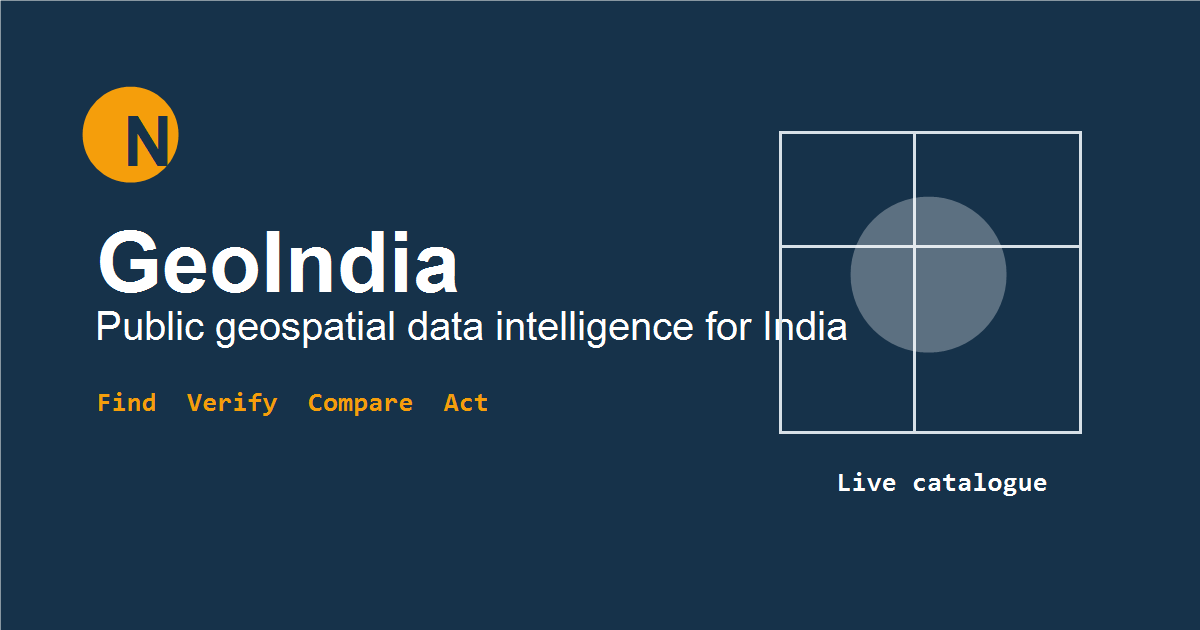
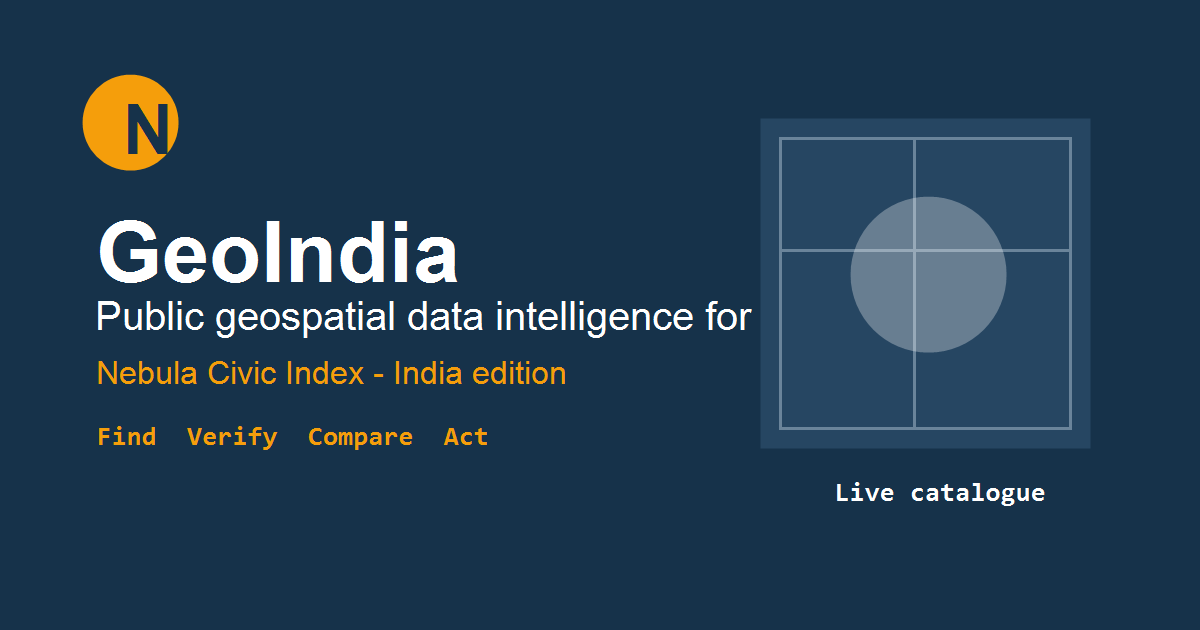
Add Civic Index global positioning

diff --git a/index.html b/index.html
@@ -50,10 +50,11 @@
       <div class="brandmark">N</div>
       <div class="brandtxt">
         <span class="brand-name">Nebula Civic Index</span>
-        <span class="brand-sub">GeoIndia · by Nebula Cloud Public Good Labs</span>
+        <span class="brand-sub">GeoIndia · first live regional edition</span>
       </div>
     </div>
     <h1>Find the data. Know whether to trust it. See what's missing.</h1>
+    <p class="editionline">The first live regional edition of Nebula Civic Index.</p>
     <p class="lede">GeoIndia is an open intelligence layer for India's fragmented public geospatial data. Discover datasets, services and portals; assess access, freshness and provenance; compare authoritative and alternative sources; identify coverage gaps; and move into analysis with NebulaCloud Studio.</p>
     <div class="journey" aria-label="GeoIndia workflow">
       <span>Find</span><i aria-hidden="true"></i><span>Verify</span><i aria-hidden="true"></i><span>Compare</span><i aria-hidden="true"></i><span>Act</span>
@@ -88,6 +89,7 @@
     <a href="#compare">Compare sources</a>
     <a href="#delivery">Delivery</a>
     <a href="#partner">Partner</a>
+    <a href="#civic-index">Civic Index</a>
     <a href="#next">What's next</a>
     <a href="#methodology">Methodology</a>
     <a href="#labs">Public Good Labs</a>
@@ -309,13 +311,45 @@
 
   <section id="partner" class="section">
     <div class="wrap">
-      <p class="eyebrow">Partner with Nebula</p>
+      <p class="eyebrow">Partner with Civic Index</p>
       <h2>Turn public-data discovery into operational delivery.</h2>
-      <p class="sub">GeoIndia is live as an open discovery and intelligence layer. NebulaCloud Studio and managed services are available for teams that need assisted analysis, packaging, validation, reporting or project-specific derived data.</p>
+      <p class="sub">GeoIndia is live as an open discovery and intelligence layer. We welcome collaboration with think tanks, policy organisations, market-research and advisory firms, geospatial analytics and Earth-observation companies, universities, researchers, NGOs, development organisations, civic-tech and open-data communities, industry bodies and public-sector institutions.</p>
       <div class="partner-actions">
         <a class="ghostbtn" href="https://nebulacloud.studio" target="_blank" rel="noopener noreferrer">Open NebulaCloud Studio ↗</a>
+        <a class="ghostbtn" href="https://nebulacloud.studio" target="_blank" rel="noopener noreferrer">Discuss a collaboration ↗</a>
         <span class="status-badge status-live">Live catalogue</span>
         <span class="status-badge status-nebula">Available via Nebula</span>
+      </div>
+    </div>
+  </section>
+
+  <section id="civic-index" class="section pale">
+    <div class="wrap">
+      <p class="eyebrow">Nebula Civic Index</p>
+      <h2>Civic Index across jurisdictions</h2>
+      <p class="sub">Nebula Civic Index is an open public-data intelligence initiative by Nebula Cloud Public Good Labs. It helps make fragmented public datasets easier to discover, verify, compare and act on across jurisdictions. GeoIndia is the first live regional edition.</p>
+      <p class="sub">Public data is abundant but fragmented across agencies, portals and jurisdictions. Civic Index is designed to provide a reusable intelligence layer for discovering what exists, understanding whether it is usable, comparing sources and identifying what is missing. Build locally. Standardize globally.</p>
+      <div class="editiongrid" aria-label="Regional Civic Index editions">
+        <article class="editioncard live-edition">
+          <span class="status-badge status-live">Live</span>
+          <h3>India — GeoIndia</h3>
+          <p>India's public geospatial data ecosystem.</p>
+        </article>
+        <article class="editioncard">
+          <span class="status-badge status-coming">Coming soon</span>
+          <h3>Europe edition</h3>
+          <p>Expected to begin with EU-level infrastructure and selected national ecosystems.</p>
+        </article>
+        <article class="editioncard">
+          <span class="status-badge status-coming">Coming soon</span>
+          <h3>United States edition</h3>
+          <p>Expected to begin with federal sources before expanding into state and local public-data ecosystems.</p>
+        </article>
+      </div>
+      <div class="collabbox">
+        <h3>Help build the next Civic Index</h3>
+        <p>We welcome collaboration with researchers, universities, open-data communities, geospatial organisations, civic-tech groups and public institutions interested in helping develop the Europe and United States editions.</p>
+        <p class="footnote">Collaboration areas include source discovery, catalogue validation, jurisdiction expertise, metadata harmonisation, geospatial standards, research, open-data policy, benchmark use cases and technology integration.</p>
       </div>
     </div>
   </section>
@@ -347,7 +381,7 @@
         <article><span class="status-badge status-coming">Coming soon</span><h3>Direct Studio handoff</h3><p>Send a selected dataset or filtered catalogue view into a live Studio workspace.</p></article>
         <article><span class="status-badge status-coming">Coming soon</span><h3>Source monitoring</h3><p>Scheduled checks for portal, endpoint and dataset-change signals.</p></article>
         <article><span class="status-badge status-coming">Coming soon</span><h3>APIs and authenticated execution</h3><p>Programmatic catalogue access and authenticated workflows for partner deployments.</p></article>
-        <article><span class="status-badge status-planned">Exploring / planned</span><h3>Additional Civic Index domains</h3><p>Climate, urban, agriculture and heritage data intelligence initiatives.</p></article>
+        <article><span class="status-badge status-planned">Exploring / planned</span><h3>Additional Public Good Labs initiatives</h3><p>Climate, urban, agriculture and heritage data intelligence initiatives.</p></article>
       </div>
     </div>
   </section>
@@ -366,9 +400,16 @@
       <div class="labsband">
         <p class="eyebrow">The initiative</p>
         <h2>Nebula Cloud Public Good Labs</h2>
-        <p class="sub">Applying AI, cloud computing and open technologies to public-interest data, research and digital infrastructure. GeoIndia is live; the adjacent domains are planned or being explored.</p>
+        <p class="sub">Applying AI, cloud computing and open technologies to public-interest data, research and digital infrastructure.</p>
+        <h3>Nebula Civic Index</h3>
+        <p class="sub">Public-data intelligence across jurisdictions.</p>
+        <div class="domains regional-domains">
+          <div class="domain live"><b>India — GeoIndia</b><span>India's public geospatial data ecosystem</span><em>Live</em></div>
+          <div class="domain coming"><b>Europe edition</b><span>EU-level and selected national public-data ecosystems</span><em>Coming soon</em></div>
+          <div class="domain coming"><b>United States edition</b><span>Federal, state and local public-data ecosystems</span><em>Coming soon</em></div>
+        </div>
+        <h3 class="initiative-head">Other Public Good Labs initiatives</h3>
         <div class="domains">
-          <div class="domain live"><b>GeoIndia</b><span>Geospatial data intelligence</span><em>Live</em></div>
           <div class="domain"><b>ClimateIndia</b><span>Climate &amp; environment</span><em>Exploring</em></div>
           <div class="domain"><b>UrbanIndia</b><span>Municipal &amp; urban data</span><em>Planned</em></div>
           <div class="domain"><b>AgriIndia</b><span>Agriculture &amp; food systems</span><em>Planned</em></div>
@@ -381,8 +422,8 @@
 
 <footer class="foot">
   <div class="wrap">
-    <p class="footline">Nebula Civic Index — GeoIndia is an open public-data initiative by <strong>Nebula Cloud Public Good Labs</strong>.</p>
-    <p class="footcopy">GeoIndia is an independent public-good initiative and is not an official Government of India portal. Catalogue metadata is openly licensed and downloadable. Source terms govern underlying datasets. Boundaries: Natural Earth (public domain). Basemap: © OpenStreetMap contributors, © CARTO.</p>
+    <p class="footline">Nebula Civic Index — GeoIndia is the first live regional edition of Nebula Civic Index, an open public-data intelligence initiative by <strong>Nebula Cloud Public Good Labs</strong>.</p>
+    <p class="footcopy">GeoIndia focuses on geospatial data intelligence for India. Europe and United States editions are planned next. GeoIndia is independent and is not an official Government of India portal. Source terms govern; underlying datasets are not re-hosted.</p>
     <p class="studiofoot"><a href="https://nebulacloud.studio" target="_blank" rel="noopener noreferrer">Built with NebulaCloud Studio</a></p>
   </div>
 </footer>

diff --git a/assets/css/styles.css b/assets/css/styles.css
@@ -37,7 +37,7 @@ a{color:var(--primary)}
 .eyebrow{font-family:var(--mono);font-size:12px;letter-spacing:.14em;text-transform:uppercase;color:var(--muted);font-weight:500}
 .sub{color:var(--muted);margin:6px 0 0;max-width:70ch}
 .footnote{font-size:13px;color:var(--muted);margin:12px 0 0}
-.section{padding:44px 0}
+.section{padding:44px 0;scroll-margin-top:68px}
 .section.pale{background:var(--card);border-top:1px solid var(--hair);border-bottom:1px solid var(--hair)}
 .skip{position:absolute;left:-9999px}
 .skip:focus{left:12px;top:12px;z-index:100;background:#fff;padding:8px 14px;border-radius:6px}
@@ -58,6 +58,7 @@ a{color:var(--primary)}
 .journey span{background:rgba(255,255,255,.1);border:1px solid rgba(255,255,255,.22);border-radius:6px;padding:6px 10px;font-size:14px}
 .journey i{width:24px;height:1px;background:rgba(255,255,255,.35)}
 .trustline{margin-top:14px;color:rgba(255,255,255,.76);font-size:13px;font-family:var(--mono)}
+.editionline{margin-top:10px;color:var(--accent);font-weight:700;font-size:14px}
 
 /* Search */
 .searchbar{display:flex;gap:10px;margin:22px 0 12px;max-width:820px}
@@ -277,6 +278,14 @@ mark{background:var(--accent-soft);color:inherit;padding:0 1px}
 
 /* Partner / roadmap */
 .partner-actions{display:flex;align-items:center;gap:10px;flex-wrap:wrap;margin-top:18px}
+.editiongrid{display:grid;grid-template-columns:repeat(auto-fit,minmax(240px,1fr));gap:16px;margin-top:20px}
+.editioncard{background:var(--card);border:1px solid var(--hair);border-radius:var(--radius);padding:18px;box-shadow:var(--shadow)}
+.editioncard h3{font-size:17px;margin:10px 0 6px}
+.editioncard p{font-size:14px;color:var(--muted)}
+.live-edition{border-color:#b8dcc6;background:var(--good-soft)}
+.collabbox{margin-top:18px;border:1px solid var(--hair);border-radius:var(--radius);background:var(--card);padding:18px;box-shadow:var(--shadow)}
+.collabbox h3{font-size:17px;margin-bottom:6px}
+.collabbox p{font-size:14px;color:var(--muted);max-width:86ch}
 .roadmapgrid{display:grid;grid-template-columns:repeat(auto-fit,minmax(230px,1fr));gap:16px;margin-top:18px}
 .roadmapgrid article{background:var(--card);border:1px solid var(--hair);border-radius:var(--radius);padding:18px;box-shadow:var(--shadow)}
 .roadmapgrid h3{font-size:16px;margin:10px 0 6px}
@@ -298,6 +307,10 @@ mark{background:var(--accent-soft);color:inherit;padding:0 1px}
 .domain em{display:inline-block;margin-top:10px;font-style:normal;font-family:var(--mono);font-size:11px;text-transform:uppercase;letter-spacing:.05em;color:var(--muted)}
 .domain.live{border-color:var(--good);background:var(--good-soft)}
 .domain.live em{color:var(--good)}
+.domain.coming{border-color:#eccb9c;background:var(--warn-soft)}
+.domain.coming em{color:var(--warn)}
+.regional-domains{margin-bottom:22px}
+.initiative-head{margin-top:24px}
 
 /* Footer */
 .foot{background:var(--primary-2);color:rgba(255,255,255,.75);padding:30px 0;text-align:center}

diff --git a/tests/e2e/geoindia.spec.js b/tests/e2e/geoindia.spec.js
@@ -88,3 +88,24 @@ test('desktop/mobile page has no serious axe violations', async ({ page }) => {
   await waitForCatalogue(page);
   await expectNoCriticalA11yIssues(page);
 });
+
+test('Civic Index regional architecture is truthful and non-routable', async ({ page }) => {
+  await page.goto('/');
+  await waitForCatalogue(page);
+  const civic = page.locator('#civic-index');
+  await expect(civic).toContainText('Civic Index across jurisdictions');
+  await expect(civic).toContainText('India — GeoIndia');
+  await expect(civic).toContainText('Live');
+  await expect(civic).toContainText('Europe edition');
+  await expect(civic).toContainText('Coming soon');
+  await expect(civic).toContainText('United States edition');
+  await expect(civic).toContainText('Build locally. Standardize globally.');
+  await expect(civic.getByRole('link')).toHaveCount(0);
+  await expect(civic).not.toContainText(/Europe indexed|US data available|worldwide catalogue|global coverage/i);
+
+  const labs = page.locator('#labs');
+  await expect(labs).toContainText('Nebula Civic Index');
+  await expect(labs).toContainText('Other Public Good Labs initiatives');
+  await expect(labs).toContainText('ClimateIndia');
+  await expect(labs).toContainText('Exploring');
+});

diff --git a/tools/validate_site.py b/tools/validate_site.py
@@ -146,6 +146,18 @@ def validate_html(errors: list[str]) -> None:
     for required in ("Live catalogue", "Available via Nebula", "Coming soon", "Exploring / planned"):
         if required not in html:
             errors.append(f"Missing launch status label: {required}")
+    for required in (
+        "India — GeoIndia",
+        "Europe edition",
+        "United States edition",
+        "Build locally. Standardize globally.",
+        "first live regional edition",
+    ):
+        if required not in html:
+            errors.append(f"Missing Civic Index architecture text: {required}")
+    for fake_route in ('href="/europe"', 'href="/us"', 'href="/india"', 'href="europe"', 'href="us"'):
+        if fake_route in html:
+            errors.append(f"Unexpected fake regional route exposed: {fake_route}")
 
 
 def validate_app(errors: list[str]) -> None:

diff --git a/README.md b/README.md
@@ -22,6 +22,30 @@ Public geospatial data for India is spread across national agencies, state geopo
 
 GeoIndia is designed to answer those questions from catalogued evidence. It is a discovery and intelligence layer, not a data host. Every dataset record links to the source, and the source's terms govern the underlying data.
 
+## Nebula Civic Index
+
+Nebula Civic Index is an open public-data intelligence initiative by Nebula Cloud Public Good Labs. It helps make fragmented public datasets easier to discover, verify, compare and act on across jurisdictions.
+
+GeoIndia is the first live regional edition. Europe and the United States are planned next, but they are not live products in this repository. The current repository remains specifically the India implementation.
+
+The expansion principle is: **Build locally. Standardize globally.** Each regional edition should respect local institutions, licensing, standards, jurisdiction hierarchy, languages and data infrastructure while normalizing evidence into a shared intelligence model.
+
+No Europe or United States datasets are currently served by this GeoIndia repository unless explicitly catalogued as global alternatives relevant to India.
+
+## Regional Roadmap
+
+### India
+
+GeoIndia is live and remains focused on India's public geospatial data ecosystem.
+
+### Europe
+
+Coming soon. The Europe edition is expected to begin with EU-level infrastructure and selected national ecosystems, including sources such as EU open-data infrastructure, INSPIRE, Copernicus, Eurostat, the European Environment Agency, national mapping/open-data agencies and selected regional or local public-data infrastructure.
+
+### United States
+
+Coming soon. The United States edition is expected to begin with federal sources such as federal open data, USGS, Census, NOAA, NASA, FEMA, EPA, USDA and transport/infrastructure data before expanding into selected state GIS clearinghouses and county/city open-data portals.
+
 ## More Than A Directory
 
 A conventional directory is a list of links. GeoIndia adds a structured intelligence layer:
@@ -48,7 +72,7 @@ The public catalogue remains free and open. Commercial value begins after discov
 
 ## Product Model
 
-GeoIndia follows the launch model:
+GeoIndia follows the Civic Index launch model:
 
 **Open Index -> Intelligence -> Execution -> Enterprise**
 
@@ -93,6 +117,57 @@ The public application is deliberately static and dependency-light:
 | Tooling | Python stdlib scripts plus optional boundary prep dependency |
 | Hosting | GitHub Pages |
 
+## Jurisdiction-Neutral Architecture Direction
+
+The current GeoIndia JSON remains stable for launch. Conceptually, Civic Index is intended to evolve toward a jurisdiction-aware model:
+
+```text
+Country
+-> Jurisdiction
+-> Organisation
+-> Portal
+-> Catalogue
+-> Dataset / Service / API
+-> Geographic coverage
+-> Licence
+-> Access
+-> Formats / protocols
+-> Verification evidence
+-> Quality / usability
+-> Alternatives
+-> Gaps
+```
+
+Jurisdiction should eventually represent scales such as India, Telangana, the European Union, Germany, Bavaria, the United States, California or Los Angeles County.
+
+Jurisdiction-aware Civic Index intelligence can support future workflows such as project data feasibility, market research, infrastructure intelligence, tender/bid data assessment, public-data sourcing and geography-specific evidence gathering. These are architectural directions, not public-site features in this repository.
+
+### Future Civic Intelligence API
+
+Future API concepts may include:
+
+```text
+GET /jurisdictions
+GET /datasets/search
+GET /sources
+GET /coverage
+GET /quality
+GET /provenance
+GET /alternatives
+GET /gaps
+GET /availability
+GET /changes
+```
+
+Potential query concepts:
+
+```text
+/datasets/search?theme=buildings&country=US&region=California
+/gaps?theme=flood-risk&country=DE
+```
+
+These endpoints are not exposed by the current static GeoIndia site.
+
 ## Repository Structure
 
 ```text
@@ -113,6 +188,7 @@ civic-index-india-geoportal/
 ## Scope And Limitations
 
 - The catalogue is a seed public index, not an exhaustive inventory of every Indian geospatial dataset.
+- Europe and United States editions are roadmap positioning only in this repository; no regional catalogues, maps, pipelines or cross-region search are implemented here.
 - Ask GeoIndia is a deterministic client-side metadata synthesis feature, not a production AI agent.
 - The public site does not re-host underlying datasets.
 - The public site does not start live Studio missions, monitoring jobs, API subscriptions, alerts or authentication flows.
@@ -133,4 +209,4 @@ See `LICENSE` and `ATTRIBUTIONS.md`.
 
 Nebula Civic Index — GeoIndia is an independent public-good initiative by Nebula Cloud Public Good Labs. It is not an official Government of India portal.
 
-The broader Public Good Labs direction includes GeoIndia, ClimateIndia, UrbanIndia, AgriIndia and HeritageIndia. GeoIndia is live; the others are planned or being explored and are not presented as launched products in this repository.
+Nebula Civic Index is the public-data intelligence programme across jurisdictions: India is live through GeoIndia, while Europe and the United States are coming soon. Separately, Public Good Labs is exploring thematic initiatives such as ClimateIndia, UrbanIndia, AgriIndia and HeritageIndia. Those thematic initiatives are not presented as launched Civic Index regional editions in this repository.
